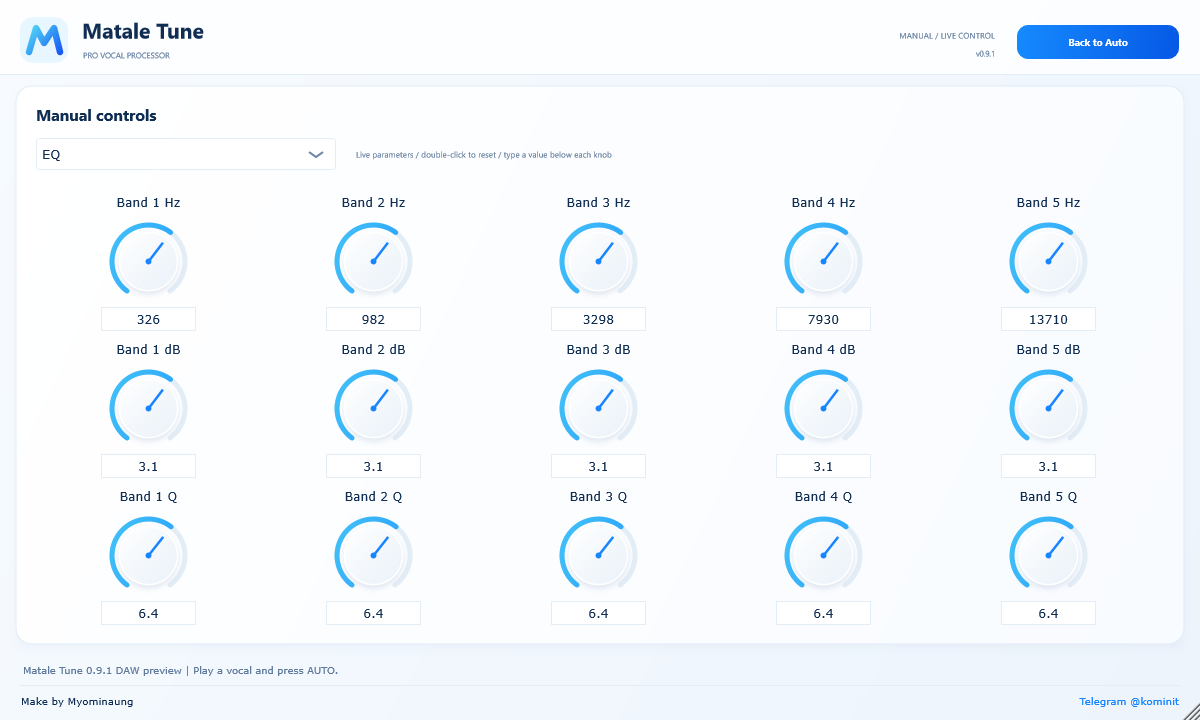
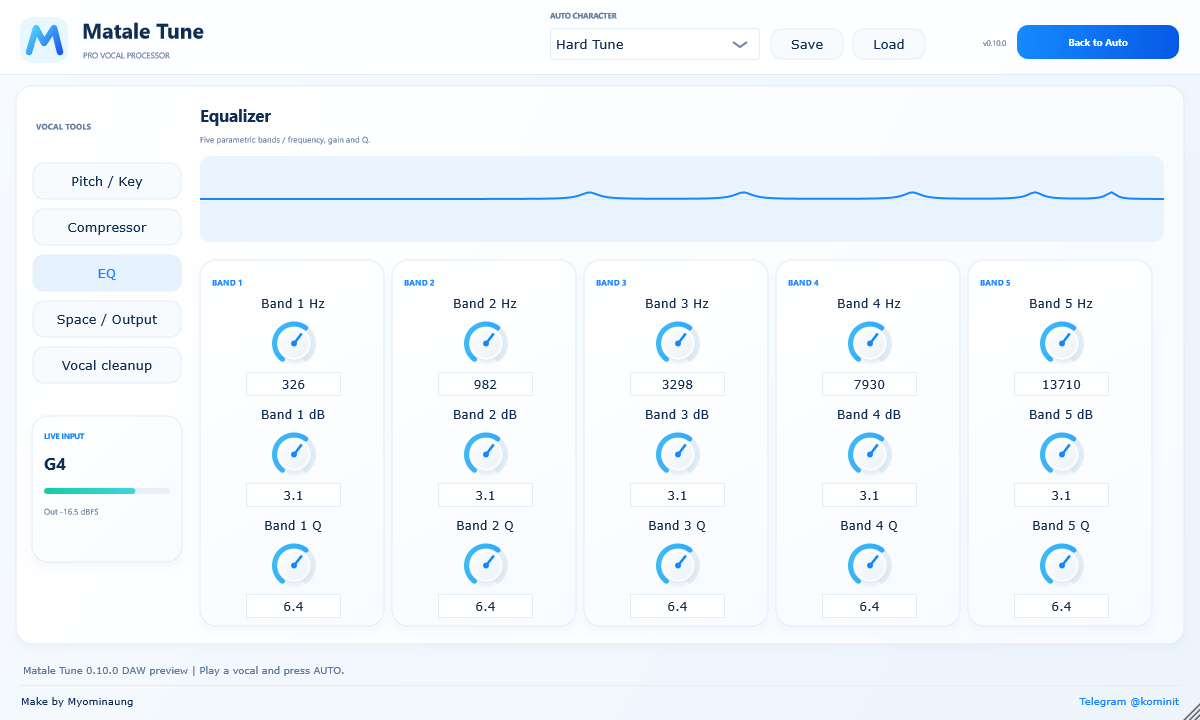
Record verified Windows preset build and grouped UI previews

diff --git a/README.md b/README.md
@@ -172,7 +172,7 @@ A stereo-linked output safety limiter uses 128 samples of lookahead and a −0.4
 
 ## Native DAW preview
 
-[Latest Windows VST3: 0.9.1 with branded UI](https://github.com/shwesiads-ctrl/b-tune/raw/67d5294076d67f1dfd52a89e9b65ea5ca74147d7/MataleTune-Windows-x64-VST3.zip)
+[Latest Windows VST3: 0.10.0 with presets and grouped UI](https://github.com/shwesiads-ctrl/b-tune/raw/da1d18ad0973c53bb4ac9760cc327714d0b3e1f7/MataleTune-Windows-x64-VST3.zip)
 
 VST3/AU share a compact four-panel JUCE editor: Vocal Analysis, Output, Auto
 Mode and Vocal Smooth. Native Auto measures dry stereo audio, estimates key
@@ -262,4 +262,21 @@ respected during analysis. Manual pages use navigation buttons, grouped modules,
 live input feedback and a real five-band EQ response curve.
 
 See [native preset usage and DAW checks](project/docs/NATIVE-PRESETS.md).
-Windows validation/download for this revision is pending.
+Windows MSVC build, all 10 native suites and pluginval strictness 5 passed.
+
+### Verified Windows 0.10.0 download
+
+[Download Windows x64 VST3 0.10.0](https://github.com/shwesiads-ctrl/b-tune/raw/da1d18ad0973c53bb4ac9760cc327714d0b3e1f7/MataleTune-Windows-x64-VST3.zip)
+(3.71 MB) · [Windows build/test evidence](https://github.com/shwesiads-ctrl/b-tune/actions/runs/38703172936).
+
+Source `52bac034d90b7352d5fa614b2d8019848b714198`: Windows MSVC build,
+10/10 native tests (including real preset files and measured character-aware
+Auto) and pluginval strictness 5 passed. Archive CRC, matching source, version,
+SHA-256 and PE x64 module were independently verified after publication.
[1 lines of base64/hex data omitted]
+
+Close the DAW and replace the whole `Matale Tune.vst3` bundle in
+`C:\Program Files\Common Files\VST3\`, then reopen/rescan. Choose an Auto character,
+use AUTO on a vocal phrase, and Save / Load `.matalepreset` files from the header.
+
+![Actual Windows grouped Manual EQ interface](Native-Manual-Preview.png)

diff --git a/project/docs/NATIVE-VALIDATION.md b/project/docs/NATIVE-VALIDATION.md
@@ -108,5 +108,15 @@ Linux native build and all 10 CTest suites passed. New coverage includes:
 - All five reorganized Manual pages captured for local visual review; all
   48 manual bindings, rotary-only controls and resize bounds remain checked.
 
-Windows validation and binary publication are pending for this revision.
+Windows run https://github.com/shwesiads-ctrl/b-tune/actions/runs/38703172936
+completed successfully for source `52bac034d90b7352d5fa614b2d8019848b714198`.
+MSVC Windows x64 build, all 10 native suites and pluginval 1.0.4 strictness 5
+passed. The actual Windows grouped EQ screenshot was inspected after download.
+Pluginval GUI tests and the separate Steinberg validator remain skipped as
+previously documented.
+
+The archive was independently checked for CRC, matching source/version, a
+PE machine 0x8664 VST3 module and SHA-256. Archive size: 3,713,391 bytes.
[1 lines of base64/hex data omitted]
+Binary commit: `da1d18ad0973c53bb4ac9760cc327714d0b3e1f7`.
 Native file-dialog interaction and listening/project recall remain DAW checks.
